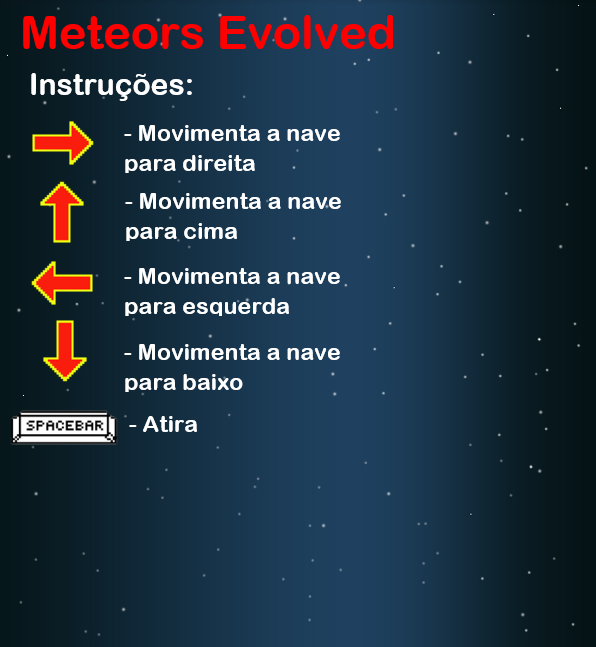
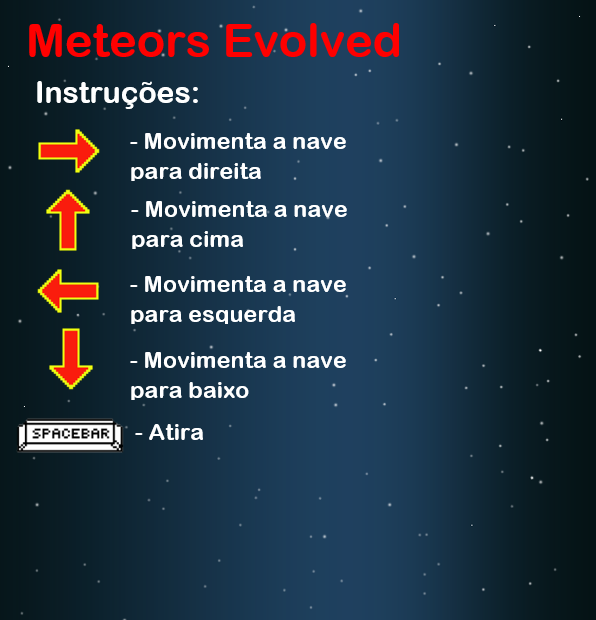
texto piscando na tela de inicio

Changed region(s): [[0.0, 0.1226, 0.604, 0.7355], [0.0302, 0.0, 0.6946, 0.0919]]

diff --git a/init_screen.py b/init_screen.py
@@ -1,9 +1,11 @@
 import pygame
 import random
 from os import path
-
+from itertools import cycle
 from config import IMG_DIR, BLACK, FPS, GAME, QUIT
 
+
+PISCA = pygame.USEREVENT + 0
 
 def init_screen(screen):
     # Variável para o ajuste de velocidade
@@ -12,6 +14,14 @@ def init_screen(screen):
     # Carrega o fundo da tela inicial
     background = pygame.image.load(path.join(IMG_DIR, 'inicio.png')).convert()
     background_rect = background.get_rect()
+
+    second_background = pygame.image.load(path.join(IMG_DIR, 'inicio_2.png')).convert()
+    second_background_rect = second_background.get_rect()
+
+    second_background_rect.center = background_rect.center
+    pisca_surfaces = cycle([background, second_background])
+    pisca_superficie = next(pisca_surfaces)
+    pygame.time.set_timer(PISCA, 1000)
 
     running = True
     while running:
@@ -29,10 +39,13 @@ def init_screen(screen):
             if event.type == pygame.KEYUP:
                 state = GAME
                 running = False
+            
+            if event.type == PISCA:
+                pisca_superficie = next(pisca_surfaces)
 
         # A cada loop, redesenha o fundo e os sprites
         screen.fill(BLACK)
-        screen.blit(background, background_rect)
+        screen.blit(pisca_superficie, background_rect)
 
         # Depois de desenhar tudo, inverte o display.
         pygame.display.flip()
